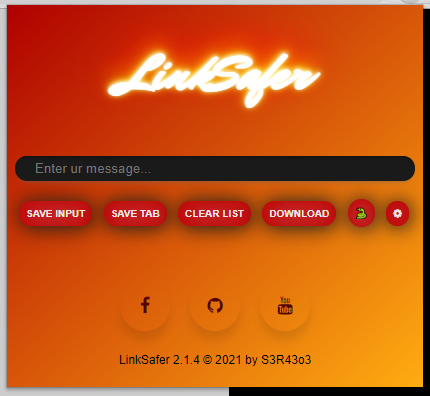
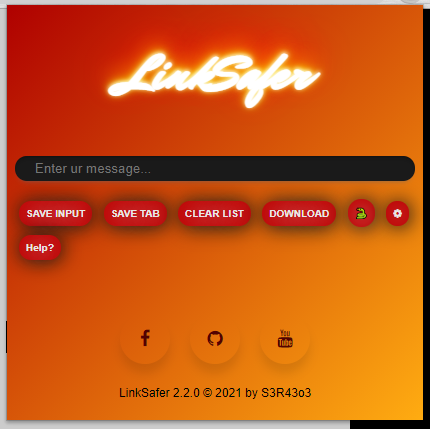
update screenshots and brandings

diff --git a/src/snake.html b/src/snake.html
@@ -1,51 +1,60 @@
 <!DOCTYPE html>
 <html lang="en">
-<head>
-  <meta charset="UTF-8">
-  <meta name="viewport" content="width=device-width, initial-scale=1.0">
-  <meta http-equiv="X-UA-Compatible" content="ie=edge">
-  <title>Snake</title>
-  <style>
-    body {
-      height: 100vh - 10em;
-      width: 100vw - 10em;
-      display: flex;
-      justify-content: center;
-      align-items: center;
-      margin: 0;
-      background-color: black;
-    }
-    h1 {
-      color: #ffffff;
-      text-align: center;
-      text-shadow: 0 -1px 4px #fff, 0 -2px 10px #ff0, 0 -10px 20px #ff8000,
-        0 -18px 40px #f00;
-      color: #ffffff;
-      font-family: "Mr Dafoe", cursive;
-      font-size: 60px;
-    }
-    #game-board {
-    background-color: #CCC;
-    width: 100vmin;
-    height: 100vmin;
-    display: grid;
-    grid-template-rows: repeat(21, 1fr);
-    grid-template-columns: repeat(21, 1fr);
-    }
+  <head>
+    <meta charset="UTF-8" />
+    <meta name="viewport" content="width=device-width, initial-scale=1.0" />
+    <meta http-equiv="X-UA-Compatible" content="ie=edge" />
+    <title>Snake</title>
+    <style>
+      body {
+        height: 100vh - 10em;
+        width: 100vw - 10em;
+        display: flex;
+        justify-content: center;
+        align-items: center;
+        margin: 0;
+        background: linear-gradient(
+            to bottom right,
+            rgb(175, 0, 0),
+            rgb(255, 172, 17)
+          )
+          no-repeat center center fixed;
+        -webkit-background-size: cover;
+        -moz-background-size: cover;
+        -o-background-size: cover;
+        background-size: cover;
+      }
+      h1 {
+        color: #ffffff;
+        text-align: center;
+        text-shadow: 0 -1px 4px #fff, 0 -2px 10px #ff0, 0 -10px 20px #ff8000,
+          0 -18px 40px #f00;
+        color: #ffffff;
+        font-family: "Mr Dafoe", cursive;
+        font-size: 60px;
+      }
+      #game-board {
+        background-color: #ccc;
+        width: 100vmin;
+        height: 100vmin;
+        display: grid;
+        grid-template-rows: repeat(21, 1fr);
+        grid-template-columns: repeat(21, 1fr);
+      }
 
-    .snake {
-      background-color: hsl(200, 100%, 50%);
-      border: .25vmin solid black;
-    }
+      .snake {
+        background-color: hsl(200, 100%, 50%);
+        border: 0.25vmin solid black;
+      }
 
-    .food {
-      background-color: hsl(50, 100%, 50%);
-      border: .25vmin solid black;
-    }
-  </style>
-  <script src="game.js" defer type="module"></script>
-</head>
-<main>
-  <div id="game-board"></div>
-</main>
+      .food {
+        background-color: hsl(50, 100%, 50%);
+        border: 0.25vmin solid black;
+      }
+    </style>
+    <script src="game.js" defer type="module"></script>
+  </head>
+  <main>
+    <div id="game-board"></div>
+  </main>
 </html>

diff --git a/background.js b/background.js
@@ -2,7 +2,7 @@ chrome.runtime.onMessage.addListener(function(request, message, sender, senderRe
     if (request.message === 'buttonClicked'){
         chrome.tabs.create({
             active: true,
-            url: './src/snake.html',   
+            url: './src/snake.html',
         },null);
     }
     if (request.message === 'helpClicked'){
